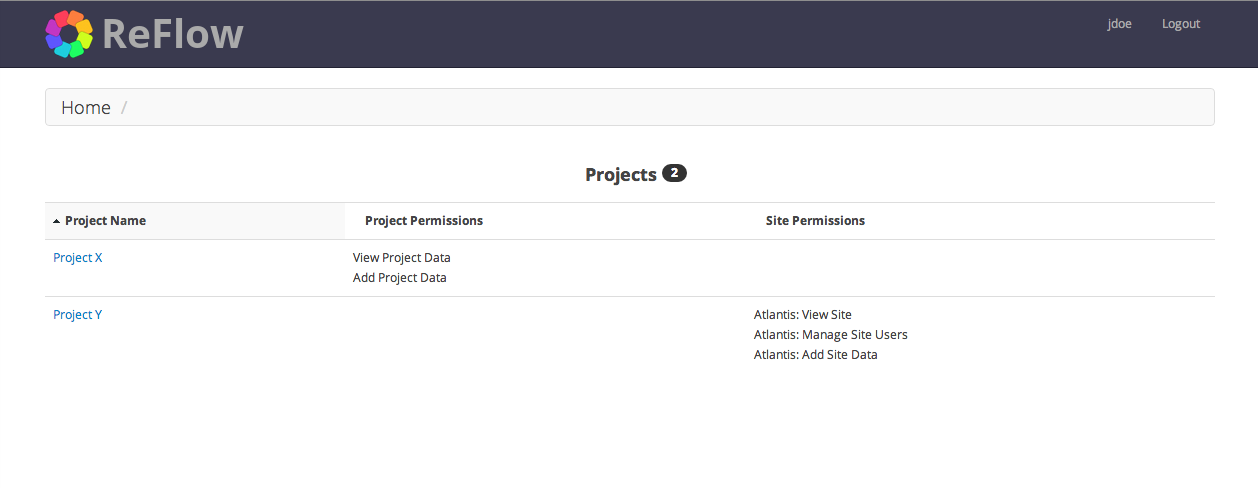
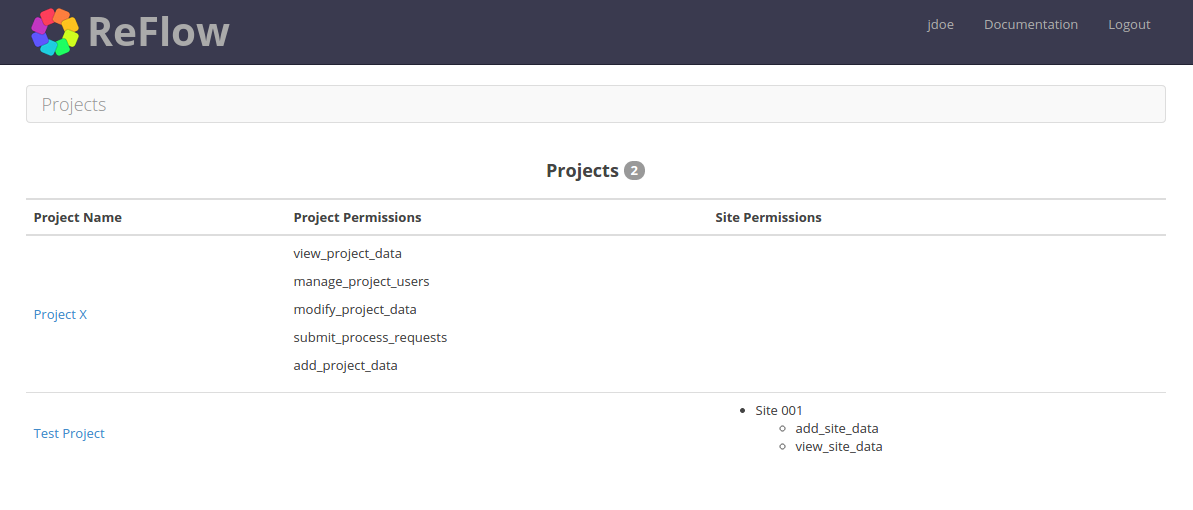
update intro and site nav documentation and updated some screenshots

diff --git a/docs/source/intro.rst b/docs/source/intro.rst
@@ -7,10 +7,10 @@ What is ReFlow?
 
 ReFlow is a web-based repository for flow cytometry data (i.e.
 FCS files), with a primary focus on reproducible automated analysis. While
-other online repositories for flow cytometry exist,
-most are focused on providing data sharing using software as a service (SaaS).
-While ReFlow can be considered as a SaaS system, it was developed
-to be deployed within an organization, institution, or laboratory.
+other online repositories exist for flow cytometry data, most are focused on
+data sharing under a software as a service (SaaS) model. ReFlow is not a
+solitary SaaS application, and is meant to be deployed within an organization,
+institution, or laboratory.
 
 =====================
 Why was ReFlow built?
@@ -25,12 +25,12 @@ manual analysis is subject to inter-operator variability,
 especially when attempting to find rare cell subsets. As a result,
 it is difficult to harmonize assays and interpret results across institutions.
 Automated analysis of flow cytometry data across different laboratories
-would provide a more object basis for the identification of these cell subsets.
+would provide a more objective basis for the identification of these cell subsets.
 
 However, when implementing the automated analysis pipeline,
 problems arose in identifying the individual channels within the flow
 cytometry data files. The Flow Cytometry Standard (FCS) defines which
-metadata fields contain channel information but do not specify how individual
+metadata fields contain channel information but not how individual
 channels must be labelled. As a result, annotation varies across AND within
 laboratories. For example, one FCS file may contain a channel labelled "CD14
 PB vAmine" whereas another FCS file with the same "panel" may be labelled
@@ -66,10 +66,10 @@ Name                     Description
 =======================  ===========
 Project                  Sequesters data for an experiment from other experiments in the system. This is the top level of the ReFlow hierarchy.
 Subject Group            Categorizes subjects into groups, useful for differentiating a “normal” from a “control”, etc.
-Subject                  The individual from which the biological specimen was taken. A subject must belong to a subject group.
-Site                     The location where an FCS file was produced. May be a laboratory name, institution, etc.
-Cytometer                A cytometer device, associated with a specific Site.
-Visit Type               Categorizes samples into temporal groups, such as “Send out 3” for a proficiency test project or “Baseline” for a clinical trial project. Not the same as the FCS acquisition date.
+Subject                  The individual from which the biological specimen was taken. A subject may optionally belong to a subject group.
+Site                     The location where an FCS file was produced, such as a laboratory name, institution, etc.
+Cytometer                A cytometer device, which must be associated with a specific Site.
+Visit Type               Categorizes samples into temporal groups, such as “Send out 3” for a proficiency test project or “Baseline” for a clinical trial project. Note this is not the same as the FCS acquisition date.
 Stimulation              In vitro conditions used to prepare cells from which an FCS file was produced.
 Sample                   An FCS file.
 Panel Template           A collection of flow parameters used as a master template for specific site panel implementations. Must specify a staining type and a stimulation.

diff --git a/docs/source/site-nav.rst b/docs/source/site-nav.rst
@@ -13,26 +13,24 @@ Login to the ReFlow server using the web address and user credentials provided b
 Home Page
 =========
 
-The home page is a dashboard view of all the projects to which you belong as well as the user permissions you have for each project. You will not see any projects to which you do not have view permissions.
-
-The main logo in the upper left corner will always link back to this home page. In the upper right corner of the page you will find your username and a 'Logout' link to log out of the system. Note, you will be automatically logged off after 15 minutes of inactivity.
+The home page is a dashboard view of all the projects to which you belong as well as the user permissions you have for each project. You will not see any projects to which you do not have view permissions. In the upper right corner of the page you will find your username and a 'Logout' link to log out of the system. Note the 'Documentation' link to access general ReFlow usage documentation. ReFlow administrators will have an additional 'Admin' link to manage administrative tasks such as adding new markers, fluorochromes, etc.
 
 .. image:: images/home.png
    :width: 1000
 
-============
-Project Home
-============
+==============
+Project Detail
+==============
 
-The project home page is a dashboard view with links to all data categories within a project. Some categories are related to others, and this is shown by grouping them together, for example a particular cytometer belongs to a particular site, so they are grouped to convey this relationship.
+The project detail page is a dashboard view with links to all data categories within a project. Some categories are related to others, for example, a particular cytometer belongs to a particular site. Note the "breadcrumb" path directly below the ReFlow logo. This area displays your current browsing location, with links to that location's parent pages. There are also links for the most common actions under each data category.
 
-The exception to this is the Sample link. Samples represent individual FCS files and are related to several other categories. Therefore, the link to project samples is not grouped with other categories.
+.. image:: images/project-detail.png
 
-.. image:: images/project-home.png
+Note that some pages within ReFlow will be displayed slightly different depending on user permissions. For example, on the project home page, users with "Manage users" permission for that project will see a "Manage Users" link to the right of the project name. Likewise, users with "Edit project" permission for that project will see an "Edit Project" link. A non-admin user would see the project detail view as:
 
-Note that some pages within ReFlow will be displayed slightly different depending on user permissions. On the project home page, users with "Manage users" permission for that project will see a "Manage Users" link to the right of the project name. Likewise, users with "Edit project" permission for that project will see an "Edit Project" link. Users with both permissions will see both:
+.. image:: images/project-detail-non-admin-user.png
 
-.. image:: images/project-home-admin-user.png
+:doc:`tutorials/add-project`
 
 ================================
 Project Category - Subject Group
